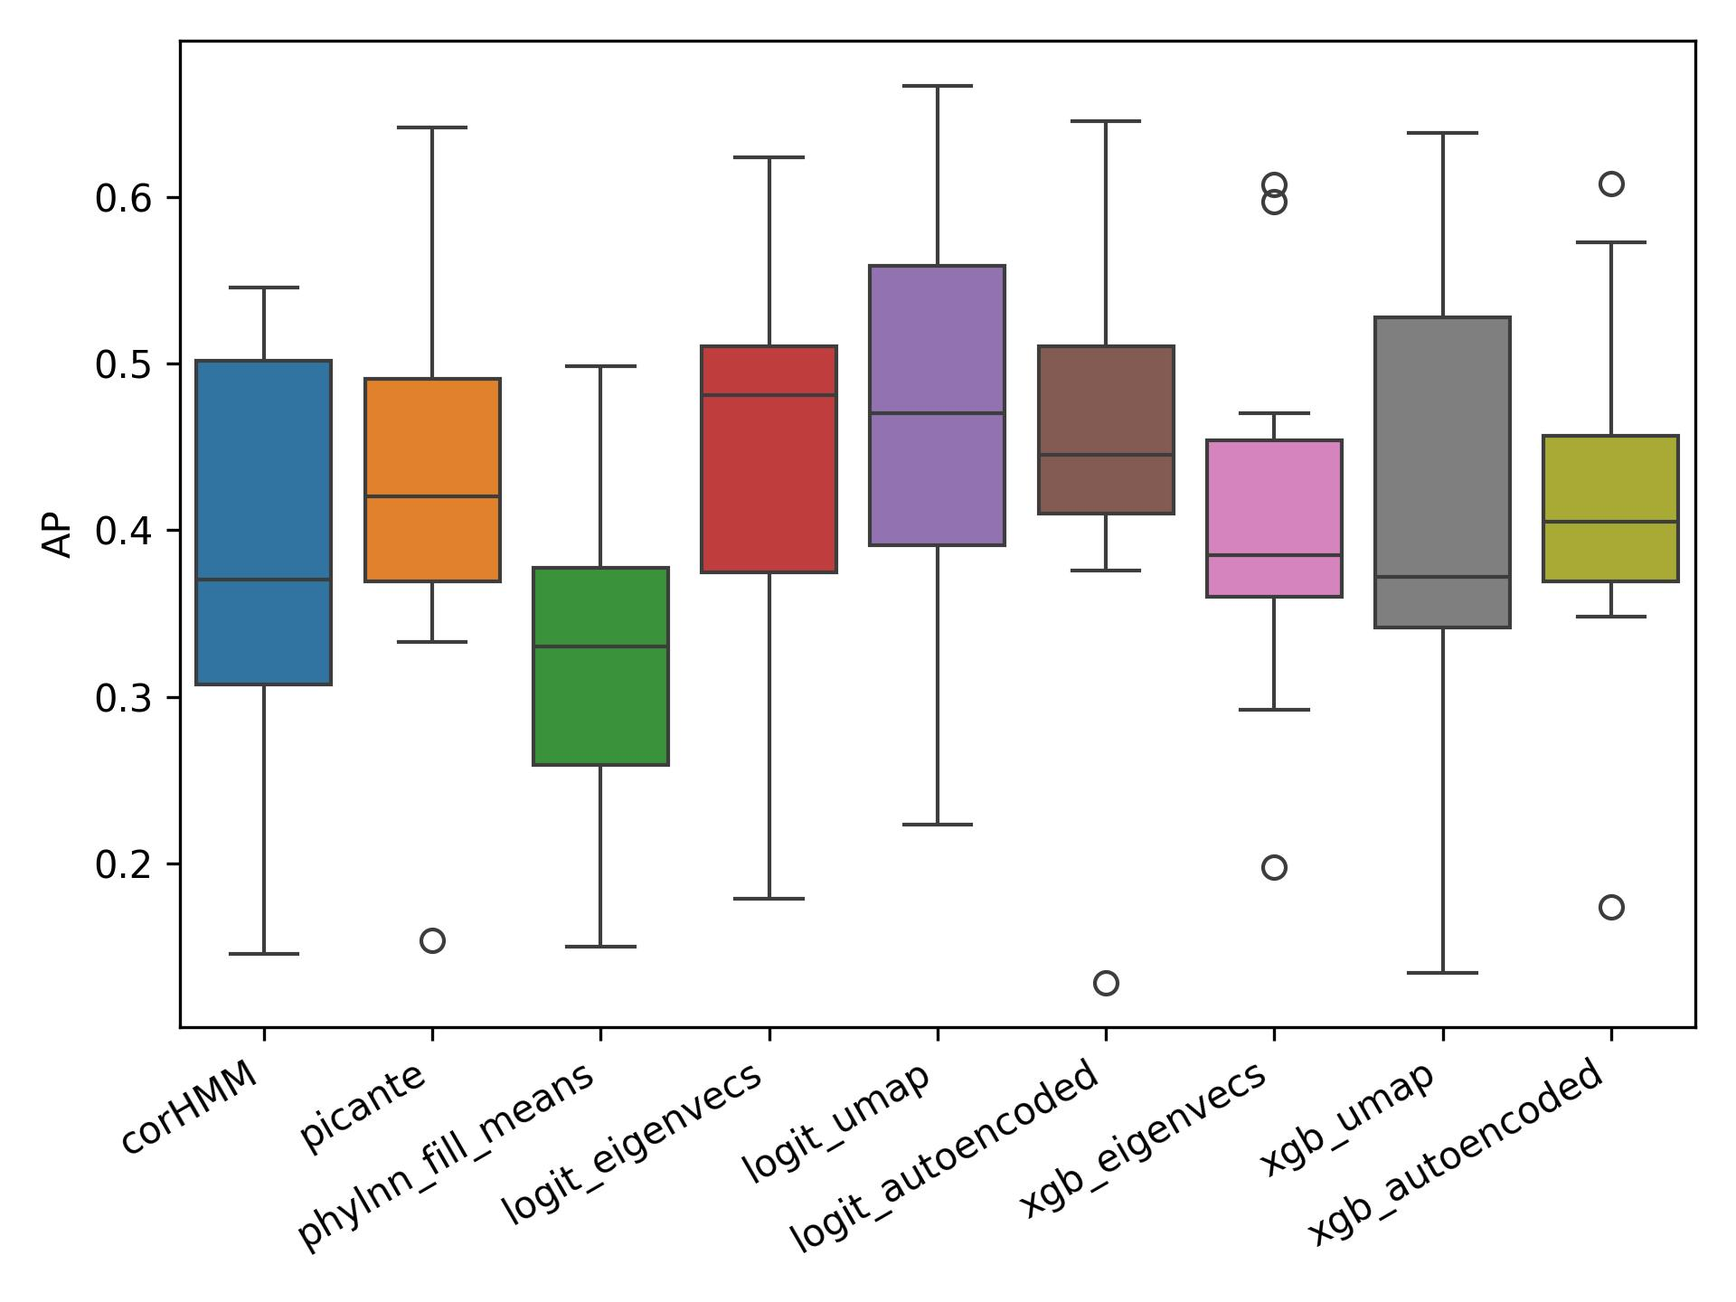
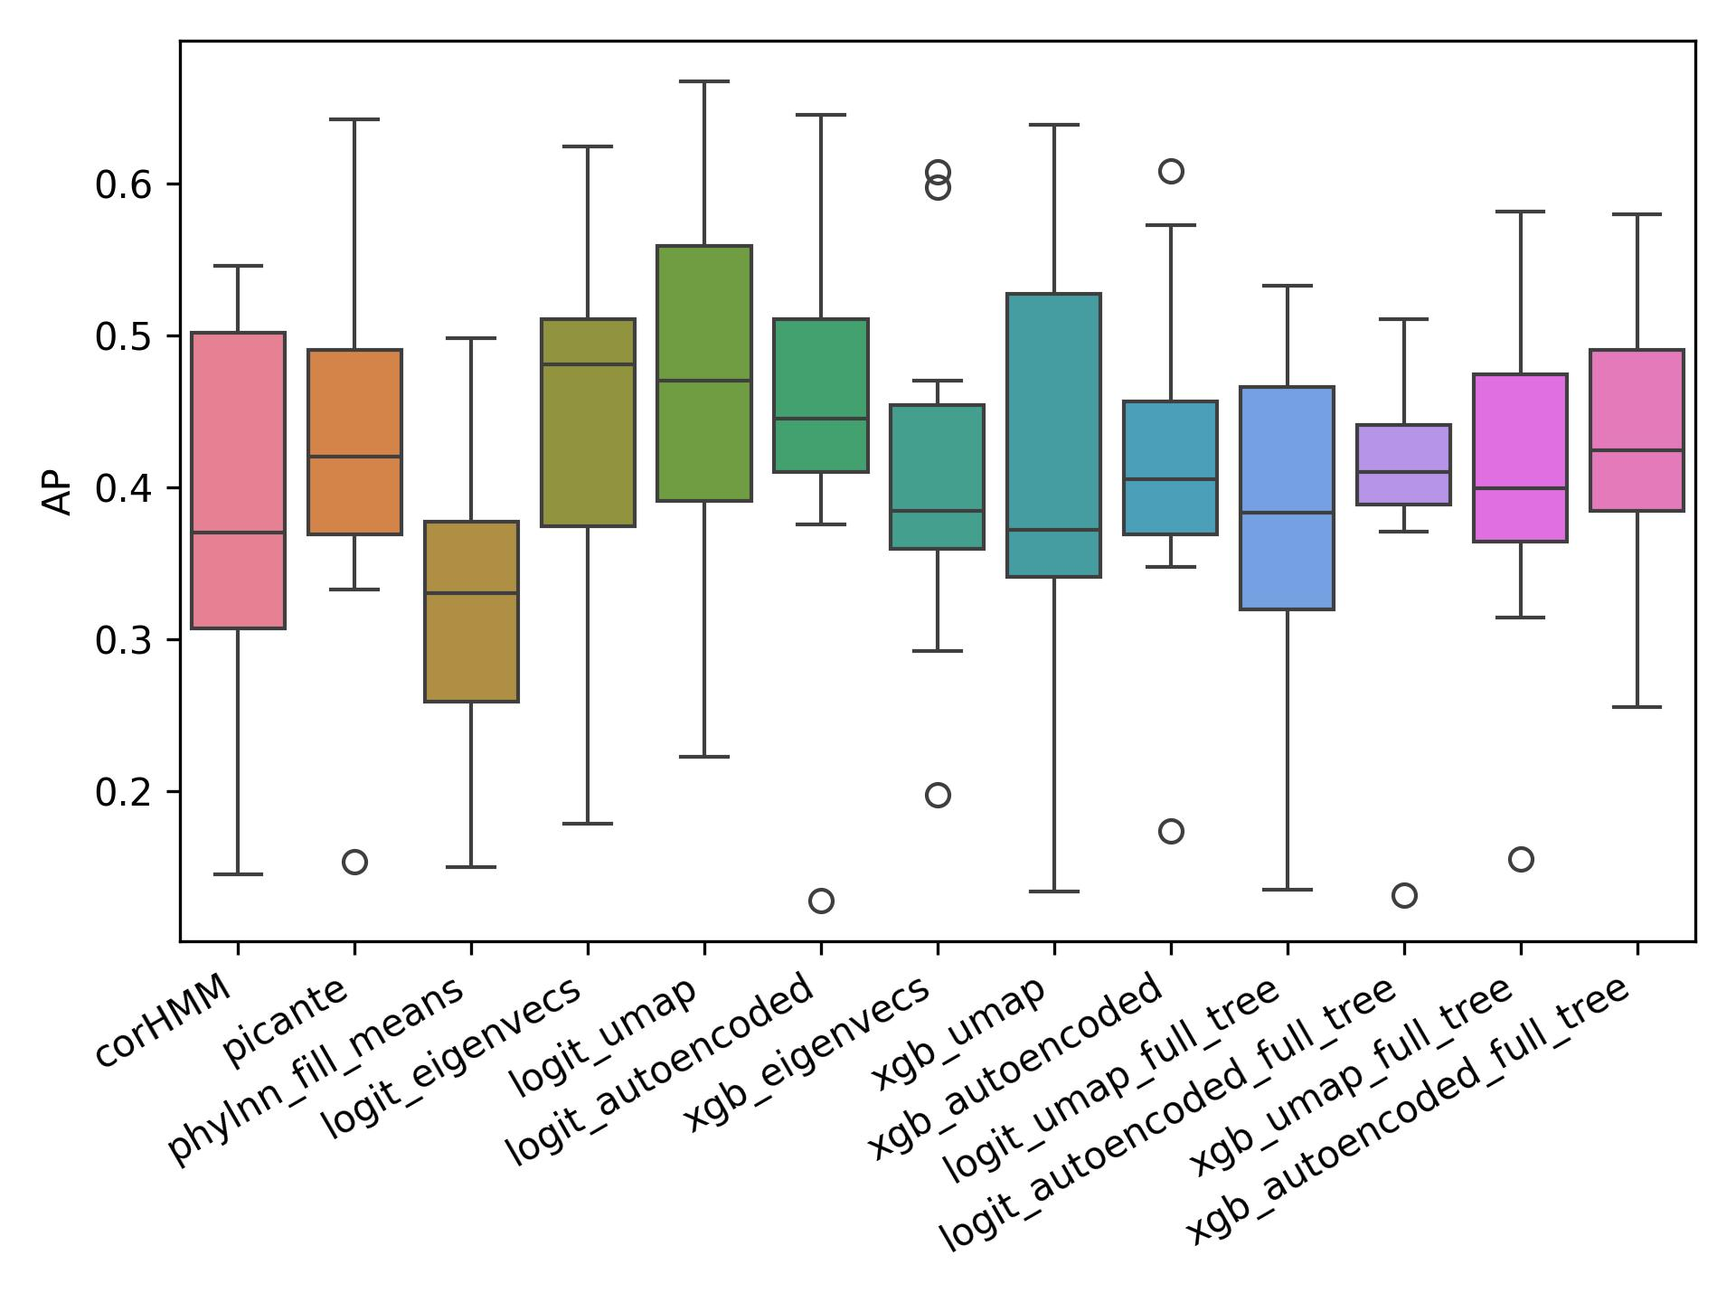
Add methods to encode using full apm tree, test umap and autoencoder versions

diff --git a/analysis/evaluation/compare_different_ev_models.py b/analysis/evaluation/compare_different_ev_models.py
@@ -6,12 +6,15 @@ import pandas as pd
 import seaborn as sns
 from matplotlib import pyplot as plt
 
-from analysis.evaluation.evaluate_score_outputs import get_model_names
 from analysis.imputation.helper_functions import missingness_types, nonstandard_sim_types, number_of_simulation_iterations
 
-bin_model_names = get_model_names('binary')
+bin_model_names = ['corHMM', 'picante', 'phylnn_raw', 'phylnn_fill_means',
+                   'logit_eigenvecs', 'logit_umap', 'logit_umap_supervised', 'logit_autoencoded', 'logit_autoenc_supervised',
+                   'xgb_eigenvecs', 'xgb_umap', 'xgb_umap_supervised', 'xgb_autoencoded', 'xgb_autoenc_supervised']
 bin_model_names.remove('phylnn_raw')
-cont_model_names = get_model_names('continuous')
+cont_model_names = ['phylopars', 'picante', 'phylnn_raw', 'phylnn_fill_means',
+                        'linear_eigenvecs', 'linear_umap', 'linear_autoencoded',
+                        'xgb_eigenvecs', 'xgb_umap', 'xgb_autoencoded']
 cont_model_names.remove('phylnn_raw')
 rename_models_and_ev_models = {'phylnn_fill_means': 'phylokNN', 'logit_eigenvecs': 'Eigenvec (L)', 'logit_umap': 'UMAP (L)',
                                'logit_umap_supervised': 'UMAP* (L)', 'logit_autoencoded': 'Autoenc (L)', 'logit_autoenc_supervised': 'Autoenc* (L)',
@@ -55,14 +58,15 @@ def check_scales():
     sns.boxplot(plot_df)
     plt.show()
 
-def output_df(df, bin_or_cont, out_dir, group:str = 'EV Model'):
+
+def output_df(df, bin_or_cont, out_dir, group: str = 'EV Model'):
     for ev_model in df[group].unique():
         ev_df = df[df[group] == ev_model]
-        ev_df =ev_df.sort_values(by=['Mean Loss'])
+        ev_df = ev_df.sort_values(by=['Mean Loss'])
         filename = "".join(x for x in ev_model if x.isalnum())
-        out_path = os.path.join(out_dir,bin_or_cont)
+        out_path = os.path.join(out_dir, bin_or_cont)
         pathlib.Path(out_path).mkdir(exist_ok=True, parents=True)
-        ev_df.to_csv(os.path.join(out_path,f'{filename}_mean_results.csv'))
+        ev_df.to_csv(os.path.join(out_path, f'{filename}_mean_results.csv'))
 
 
 def plot_binary_and_continuous_cases(bin_df, cont_df, out_dir):
@@ -72,12 +76,12 @@ def plot_binary_and_continuous_cases(bin_df, cont_df, out_dir):
     plot_df = bin_df.groupby('EV Model').mean(numeric_only=True)
     plot_df = plot_df.reset_index()
     p_df = pd.melt(plot_df, id_vars='EV Model', value_vars=bin_model_names, var_name='Model', value_name='Mean Loss')
-    p_df['EV Model'] = p_df['EV Model'].map({'simulations': 'ARD/SYM/ER', 'Extinct_BMT': 'BMT †', 'real_data':'MPNS'}).fillna(p_df['EV Model'])
+    p_df['EV Model'] = p_df['EV Model'].map({'simulations': 'ARD/SYM/ER', 'Extinct_BMT': 'BMT †', 'real_data': 'MPNS'}).fillna(p_df['EV Model'])
     p_df['Model'] = p_df['Model'].map(rename_models_and_ev_models).fillna(p_df['Model'])
 
     ev_order = ['ARD/SYM/ER', 'BISSE', 'HISSE', 'BMT †', 'MPNS']
     p_df = p_df.sort_values(by="EV Model", key=lambda column: column.map(lambda e: ev_order.index(e)))
-    output_df(p_df, 'binary',out_dir)
+    output_df(p_df, 'binary', out_dir)
     g = sns.barplot(p_df, x='Model', y='Mean Loss', hue='EV Model', order=binary_model_order)
 
     g.set_xticklabels(g.get_xticklabels(), rotation=45, ha='right', rotation_mode='anchor')
@@ -93,9 +97,9 @@ def plot_binary_and_continuous_cases(bin_df, cont_df, out_dir):
     plot_df = cont_df.groupby('EV Model').mean(numeric_only=True)
     plot_df = plot_df.reset_index()
     p_df = pd.melt(plot_df, id_vars='EV Model', value_vars=cont_model_names, var_name='Model', value_name='Mean Loss')
-    p_df['EV Model'] = p_df['EV Model'].map({'simulations': 'BM/OU', 'Extinct_BMT': 'BMT †', 'real_data':'BIEN'}).fillna(p_df['EV Model'])
+    p_df['EV Model'] = p_df['EV Model'].map({'simulations': 'BM/OU', 'Extinct_BMT': 'BMT †', 'real_data': 'BIEN'}).fillna(p_df['EV Model'])
     p_df['Model'] = p_df['Model'].map(rename_models_and_ev_models).fillna(p_df['Model'])
-    ev_order = ['BM/OU', 'BMT', 'EB', 'BMT †','BIEN']
+    ev_order = ['BM/OU', 'BMT', 'EB', 'BMT †', 'BIEN']
     p_df = p_df.sort_values(by="EV Model", key=lambda column: column.map(lambda e: ev_order.index(e)))
     g = sns.barplot(p_df, x='Model', y='Mean Loss', hue='EV Model', order=continuous_model_order)
     g.set_xticklabels(g.get_xticklabels(), rotation=45, ha='right', rotation_mode='anchor')
@@ -106,8 +110,7 @@ def plot_binary_and_continuous_cases(bin_df, cont_df, out_dir):
 
     plt.tight_layout()
     plt.savefig(os.path.join(out_dir, 'continuous_means.jpg'), dpi=300)
-    output_df(p_df, 'continuous',out_dir)
-
+    output_df(p_df, 'continuous', out_dir)
 
 
 def main():

diff --git a/analysis/imputation/run_apm_predictions.py b/analysis/imputation/run_apm_predictions.py
@@ -1,5 +1,9 @@
+import os
+
+import pandas as pd
 from sklearn.linear_model import LogisticRegression
 from sklearn.metrics import average_precision_score, make_scorer
+from sklearn.preprocessing import StandardScaler
 from tqdm import tqdm
 from xgboost import XGBClassifier
 
@@ -12,7 +16,7 @@ from phylokNN import nan_safe_metric_wrapper
 
 def run_predictions():
     for iteration in tqdm(range(1, number_of_apm_folds + 1)):
-        m= 'mcar'
+        m = 'mcar'
         bin_or_cont = 'binary'
 
         real_or_sim = 'my_apm_data'
@@ -57,6 +61,68 @@ def run_predictions():
                            bin_or_cont, scorer='average_precision')
             # # ### Semisupervised cases not included. The general simulation analysis shows they dont provide improvement
 
+def run_predictions_for_encodings_with_full_tree():
+    repo_path = os.environ.get('KEWSCRATCHPATH')
+    dir_path = os.path.join(repo_path, 'gentianales_trees', 'WCVP_12', 'Uphy', 'outputs',
+                            'Species')
+    m = 'mcar'
+    bin_or_cont = 'binary'
+    real_or_sim = 'my_apm_data'
+    ## Umap data
+    umap_X = pd.read_csv(os.path.join(dir_path, 'umap_unsupervised_embedding_full_tree.csv'), index_col=0)
+    ## Scale the data
+    umap_X = pd.DataFrame(StandardScaler().fit_transform(umap_X), index=umap_X.index)
+
+
+    ## Eigenvecs
+    # eigen_X = pd.read_csv(os.path.join(dir_path, 'all_eigenvectors_full_tree.csv'), index_col=0)
+    #
+    # broken_stick_params = pd.read_csv(os.path.join(dir_path, 'broken_stick_parameters.csv'), index_col=0)
+    # num_cols_to_use = broken_stick_params['broken_stick_number'].iloc[0]
+    # eigen_X = eigen_X.iloc[:, : num_cols_to_use]
+    # ## Scale the data
+    # eigen_X = pd.DataFrame(StandardScaler().fit_transform(eigen_X), index=eigen_X.index)
+
+    ## Autoencoded data
+    autoenc_X = pd.read_csv(os.path.join(dir_path, 'unsupervised_autoencoded_phylogeny_full_tree.csv'), index_col=0)
+    ## Scale the data
+    autoenc_X = pd.DataFrame(StandardScaler().fit_transform(autoenc_X), index=autoenc_X.index)
+    for iteration in tqdm(range(1, number_of_apm_folds + 1)):
+
+        umap_df, umap_encoding_vars, umap_target_name = add_y_to_data(umap_X, real_or_sim, bin_or_cont, iteration, m)
+
+        # eigen_df, eigen_encoding_vars, eigen_target_name = add_y_to_data(eigen_X, real_or_sim, bin_or_cont, iteration, m)
+
+        autoenc_df, autoenc_encoding_vars, autoenc_target_name = add_y_to_data(autoenc_X, real_or_sim, bin_or_cont, iteration, m)
+        out_dir = get_prediction_data_paths(real_or_sim, bin_or_cont, iteration, m)
+
+        if bin_or_cont == 'binary':
+            # clf_instance = LogisticRegression(**logit_init_kwargs)
+            # fit_and_output(clf_instance, logit_grid_search_params, out_dir, 'logit_umap_full_tree', umap_df, umap_encoding_vars, umap_target_name,
+            #                bin_or_cont, scorer='average_precision')
+
+            # clf_instance = LogisticRegression(**logit_init_kwargs)
+            # fit_and_output(clf_instance, logit_grid_search_params, out_dir, 'logit_eigenvecs_full_tree', eigen_df, eigen_encoding_vars,
+            #                eigen_target_name, bin_or_cont, scorer='average_precision')
+
+            # clf_instance = XGBClassifier(**xgb_clf_init_kwargs)
+            # fit_and_output(clf_instance, xgb_clf_grid_search_params, out_dir, 'xgb_umap_full_tree', umap_df, umap_encoding_vars, umap_target_name,
+            #                bin_or_cont, scorer='average_precision')
+
+            # clf_instance = XGBClassifier(**xgb_clf_init_kwargs)
+            # fit_and_output(clf_instance, xgb_clf_grid_search_params, out_dir, 'xgb_eigenvecs_full_tree', eigen_df, eigen_encoding_vars,
+            #                eigen_target_name, bin_or_cont, scorer='average_precision')
+            # # ### autoencoder
+            clf_instance = LogisticRegression(**logit_init_kwargs)
+            fit_and_output(clf_instance, logit_grid_search_params, out_dir, 'logit_autoencoded_full_tree', autoenc_df, autoenc_encoding_vars,
+                           umap_target_name, bin_or_cont, scorer='average_precision')
+
+            # clf_instance = XGBClassifier(**xgb_clf_init_kwargs)
+            # fit_and_output(clf_instance, xgb_clf_grid_search_params, out_dir, 'xgb_autoencoded_full_tree', autoenc_df, autoenc_encoding_vars,
+            #                umap_target_name,
+            #                bin_or_cont, scorer='average_precision')
+
 
 if __name__ == '__main__':
-    run_predictions()
+    # run_predictions()
+    run_predictions_for_encodings_with_full_tree()

diff --git a/phyloAutoEncoder/phylo_autoencoder.py b/phyloAutoEncoder/phylo_autoencoder.py
@@ -7,18 +7,23 @@ from keras import callbacks
 from matplotlib import pyplot as plt
 from sklearn.metrics import mean_squared_error
 from sklearn.model_selection import train_test_split
+from sklearn.preprocessing import StandardScaler
 
 
 def autoencode_pairwise_distances(distance_data: pd.DataFrame, reduction_fraction: float, _output_dir: str = None, plot=False):
-    # os.environ['CUDA_VISIBLE_DEVICES'] = '-1'  # If  want to use CPU as GPU doesn't have enough memory
+    os.environ['CUDA_VISIBLE_DEVICES'] = '-1'  # If  want to use CPU as GPU doesn't have enough memory
 
+    ### Scale the data
+    scaled_distance_data = pd.DataFrame(StandardScaler().fit_transform(distance_data), index=distance_data.index, columns=distance_data.columns)
+    print(scaled_distance_data.shape)
+    print(scaled_distance_data.head(5))
     _early_stopping = callbacks.EarlyStopping(
         monitor='val_loss',
         patience=10,
         restore_best_weights=True)
 
     # Define input dimensions
-    input_dim = distance_data.shape[1]
+    input_dim = scaled_distance_data.shape[1]
 
     def create_autoencoder(_input_dim: int, encoded_dim: int):
         """
@@ -45,7 +50,7 @@ def autoencode_pairwise_distances(distance_data: pd.DataFrame, reduction_fractio
         return autoencoder
 
     # Create the autoencoder model
-    encoding_dim = int(len(distance_data.columns) * reduction_fraction)
+    encoding_dim = int(len(scaled_distance_data.columns) * reduction_fraction)
     autoencoder = create_autoencoder(input_dim, encoded_dim=encoding_dim)
 
     # Compile the model
@@ -67,12 +72,11 @@ def autoencode_pairwise_distances(distance_data: pd.DataFrame, reduction_fractio
         visualkeras.layered_view(autoencoder, legend=True, to_file=os.path.join(_output_dir, 'phylogeny_autoencoder_visual.png'),font=font)
         visualkeras.graph_view(autoencoder,ellipsize_after=50, to_file=os.path.join(_output_dir, 'phylogeny_autoencoder_graph.png'),)
 
-    return
-    X_train, X_val = train_test_split(distance_data, test_size=0.2)
+    X_train, X_val = train_test_split(scaled_distance_data, test_size=0.2)
 
     # Train the model
     # the task is to encode the given dataset.
-    history = autoencoder.fit(X_train, X_train, callbacks=[_early_stopping], epochs=5,
+    history = autoencoder.fit(X_train, X_train, callbacks=[_early_stopping], epochs=1000,
                               batch_size=32, shuffle=True,
                               validation_data=(X_val, X_val), verbose=0)
 
@@ -81,15 +85,15 @@ def autoencode_pairwise_distances(distance_data: pd.DataFrame, reduction_fractio
     # Define encoder model
     encoder_model = keras.Model(inputs=autoencoder.layers[0].input, outputs=autoencoder.get_layer('encoder').output)
 
-    encoded = encoder_model.predict(distance_data)
+    encoded = encoder_model.predict(scaled_distance_data)
 
     ### Outputs
     best_train_loss = history.history['loss'][-1]
     best_val_loss = history.history['val_loss'][-1]
     if _output_dir is not None:
-        mean_example = distance_data.mean().to_frame().T
-        full_mean_df = pd.concat([mean_example] * len(distance_data.index), ignore_index=True)
-        mean_loss = mean_squared_error(distance_data, full_mean_df)
+        mean_example = scaled_distance_data.mean().to_frame().T
+        full_mean_df = pd.concat([mean_example] * len(scaled_distance_data.index), ignore_index=True)
+        mean_loss = mean_squared_error(scaled_distance_data, full_mean_df)
         baseline_df = pd.DataFrame([[mean_loss, best_train_loss, best_val_loss, len(history.history['loss']), encoding_dim]],
                                    columns=['Baseline mse', 'train_loss', 'val_loss', 'number_of_epochs', 'latent space size'])
         baseline_df.to_csv(os.path.join(_output_dir, 'autoencoder_metrics.csv'))
@@ -114,7 +118,7 @@ def autoencode_pairwise_distances(distance_data: pd.DataFrame, reduction_fractio
                                    dpi=300
                                    )
 
-    return encoder_model, pd.DataFrame(encoded, index=distance_data.index)
+    return encoder_model, pd.DataFrame(encoded, index=scaled_distance_data.index)
 
 
 if __name__ == '__main__':

diff --git a/analysis/evaluation/evaluate_score_outputs.py b/analysis/evaluation/evaluate_score_outputs.py
@@ -8,6 +8,7 @@ from matplotlib import pyplot as plt
 from scipy.stats import ttest_rel
 from sklearn.metrics import brier_score_loss, mean_absolute_error
 
+from analysis.evaluation.compare_different_ev_models import bin_model_names, cont_model_names
 from analysis.imputation.helper_functions import get_input_data_paths, get_prediction_data_paths, missingness_types, nonstandard_sim_types, \
     number_of_simulation_iterations
 
@@ -38,13 +39,8 @@ def check_prediction_data(dfs: list[pd.DataFrame], ground_truth: pd.DataFrame, m
 
 
 def get_model_names(bin_or_cont):
-    bin_model_names = ['corHMM', 'picante', 'phylnn_raw', 'phylnn_fill_means',
-                       'logit_eigenvecs', 'logit_umap', 'logit_umap_supervised', 'logit_autoencoded', 'logit_autoenc_supervised',
-                       'xgb_eigenvecs', 'xgb_umap', 'xgb_umap_supervised', 'xgb_autoencoded', 'xgb_autoenc_supervised']
-    cont_model_names = ['phylopars', 'picante', 'phylnn_raw', 'phylnn_fill_means',
-                        'linear_eigenvecs', 'linear_umap', 'linear_autoencoded',
-                        'xgb_eigenvecs', 'xgb_umap', 'xgb_autoencoded']
     if bin_or_cont == 'binary':
+
         return bin_model_names
     elif bin_or_cont == 'continuous':
         return cont_model_names
@@ -118,7 +114,8 @@ def evaluate_output(real_or_sim: str, bin_or_cont: str, iteration: int, missing_
         pd.testing.assert_series_equal(full_df['phylnn_raw'], full_df['phylnn_fill_means'], check_names=False)
         full_df = full_df.drop('phylnn_fill_means', axis=1)
     else:
-        full_df = full_df.drop('phylnn_raw', axis=1)
+        if 'phylnn_raw' in full_df:
+            full_df = full_df.drop('phylnn_raw', axis=1)
     if len(full_df) > 0:
         for model_name in model_names:
             if model_name in full_df.columns:
@@ -157,7 +154,7 @@ def plot_results(df, model_names, out_dir, tag, scorer_label):
     #         plt.close()
 
 
-def output_results_from_df(full_df: pd.DataFrame, out_dir: str, bin_or_cont: str, drop_nans: bool = False, scorer_label = 'Loss'):
+def output_results_from_df(full_df: pd.DataFrame, out_dir: str, bin_or_cont: str, drop_nans: bool = False, scorer_label='Loss'):
     if drop_nans:
         raise NotImplementedError('This is implemented but just clutters the results.')
     full_df = full_df.reset_index(drop=True)
@@ -199,7 +196,7 @@ def collate_simulation_outputs(real_or_sim: str, bin_or_cont: str, missing_type:
     out_dir = os.path.join('outputs', real_or_sim, bin_or_cont, missing_type)
     full_df['EV Model'] = real_or_sim
     full_df['Missing Type'] = missing_type
-    output_results_from_df(full_df, out_dir, bin_or_cont, drop_nans,scorer_label=scorer.__name__ if scorer is not None else 'Loss')
+    output_results_from_df(full_df, out_dir, bin_or_cont, drop_nans, scorer_label=scorer.__name__ if scorer is not None else 'Loss')
 
     return full_df
 

diff --git a/analysis/data/apm_data_sample.py b/analysis/data/apm_data_sample.py
@@ -3,7 +3,7 @@ import os
 import pandas as pd
 from tqdm import tqdm
 
-from analysis.data.umapping import reduction_factor, unsupervised
+from analysis.data.umapping import reduction_factor, unsupervised, umap_distances
 from analysis.imputation.helper_functions import input_data_path
 from phyloAutoEncoder import autoencode_pairwise_distances
 number_of_apm_folds=10
@@ -17,5 +17,23 @@ def main():
         unsup_model, unsupervised_df = autoencode_pairwise_distances(distances, reduction_factor, dir_path)
         unsupervised_df.to_csv(os.path.join(dir_path, 'unsupervised_autoencoded_phylogeny.csv'))
 
+def with_full_tree():
+    repo_path = os.environ.get('KEWSCRATCHPATH')
+    dir_path = os.path.join(repo_path, 'gentianales_trees', 'WCVP_12', 'Uphy', 'outputs',
+                                        'Species')
+    tree_path = os.path.join(dir_path, 'species_distances.csv')
+    number_of_output_features = 54
+    distances = pd.read_csv(tree_path, index_col=0)
+    reduction_fraction = number_of_output_features/len(distances.columns)
+
+    umap_embedding = umap_distances(distances, reduction_fraction)
+    umap_embedding.to_csv(os.path.join(dir_path, 'umap_unsupervised_embedding_full_tree.csv'))
+
+    unsup_model, unsupervised_df = autoencode_pairwise_distances(distances, reduction_fraction, dir_path, plot=True)
+    unsupervised_df.to_csv(os.path.join(dir_path, 'unsupervised_autoencoded_phylogeny_full_tree.csv'))
+
+
 if __name__ == '__main__':
+
+    with_full_tree()
     main()

diff --git a/analysis/evaluation/evalute_apm_data.py b/analysis/evaluation/evalute_apm_data.py
@@ -10,7 +10,6 @@ from analysis.evaluation.evaluate_score_outputs import collate_simulation_output
 
 
 def evaluate_all_combinations():
-
     binary_df = collate_simulation_outputs('my_apm_data', 'binary', 'mcar', range_to_eval=10, scorer=average_precision_score)
     output_results_from_df(binary_df, os.path.join('outputs', 'my_apm_data'), 'binary', scorer_label='AP')
 
@@ -35,11 +34,14 @@ def plot_binary_cases(bin_df, out_dir):
 
 
 if __name__ == '__main__':
-    evaluate_all_combinations()
     bin_model_names.remove('logit_umap_supervised')
     bin_model_names.remove('xgb_umap_supervised')
     bin_model_names.remove('logit_autoenc_supervised')
     bin_model_names.remove('xgb_autoenc_supervised')
+    bin_model_names += ['logit_eigenvecs_full_tree', 'logit_umap_full_tree', 'logit_autoencoded_full_tree',
+                        'xgb_eigenvecs_full_tree', 'xgb_umap_full_tree', 'xgb_autoencoded_full_tree']
+    evaluate_all_combinations()
+
     bin_df = pd.read_csv(os.path.join('outputs', 'my_apm_data', 'results.csv'))[bin_model_names + ['EV Model', 'Missing Type']]
 
     plot_binary_cases(bin_df, os.path.join('outputs', 'my_apm_data'))

diff --git a/analysis/data/umapping.py b/analysis/data/umapping.py
@@ -10,15 +10,20 @@ from analysis.imputation.helper_functions import number_of_simulation_iterations
 reduction_factor = 0.1
 
 
-def unsupervised(dir_path: str, reduction_fraction=reduction_factor):
-    distances = pd.read_csv(os.path.join(dir_path, 'tree_distances.csv'), index_col=0)
-
+def umap_distances(distances: pd.DataFrame, reduction_fraction=reduction_factor):
     scaled_penguin_data = StandardScaler().fit_transform(distances)
 
     reducer = umap.UMAP(n_components=int(len(distances.columns) * reduction_fraction))
 
     embedding = reducer.fit_transform(scaled_penguin_data)
     umap_embedding = pd.DataFrame(embedding, index=distances.index)
+    return umap_embedding
+
+
+def unsupervised(dir_path: str, reduction_fraction=reduction_factor):
+    distances = pd.read_csv(os.path.join(dir_path, 'tree_distances.csv'), index_col=0)
+
+    umap_embedding = umap_distances(distances, reduction_fraction)
     umap_embedding.to_csv(os.path.join(dir_path, 'umap_unsupervised_embedding.csv'))
 
 
